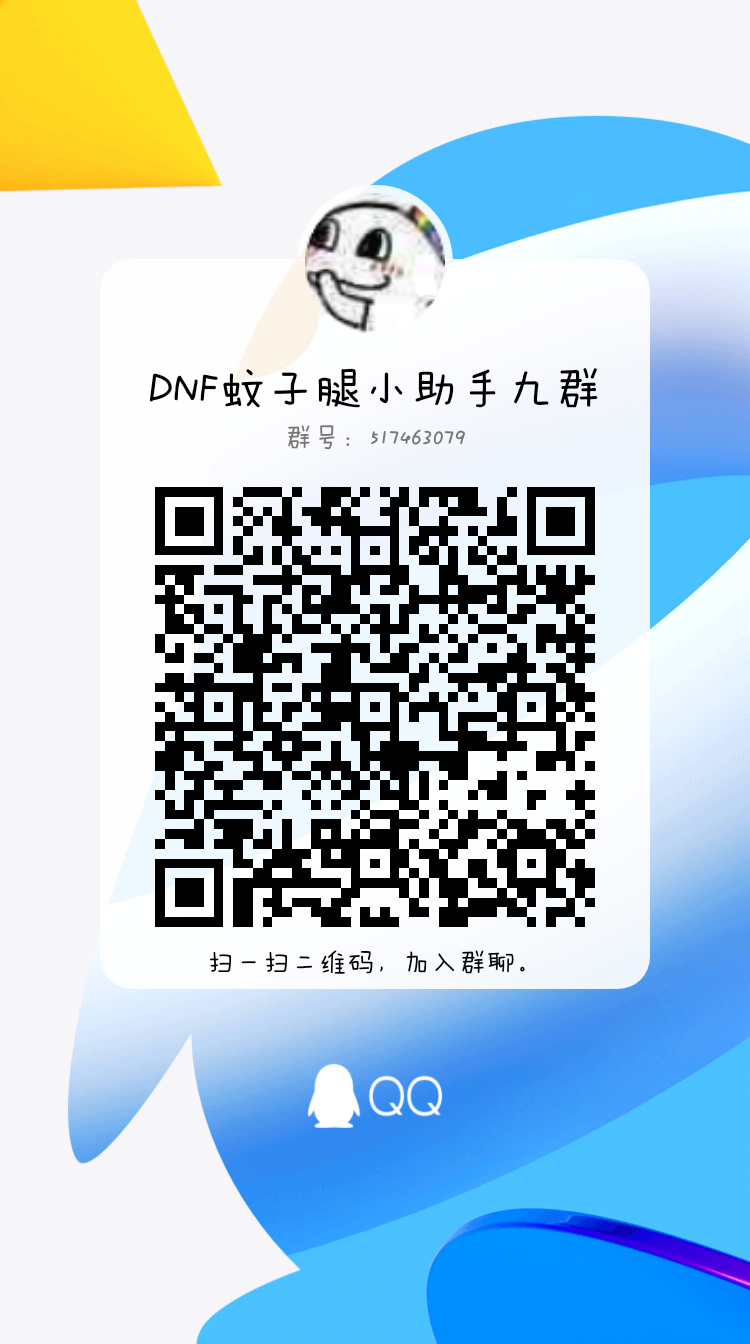
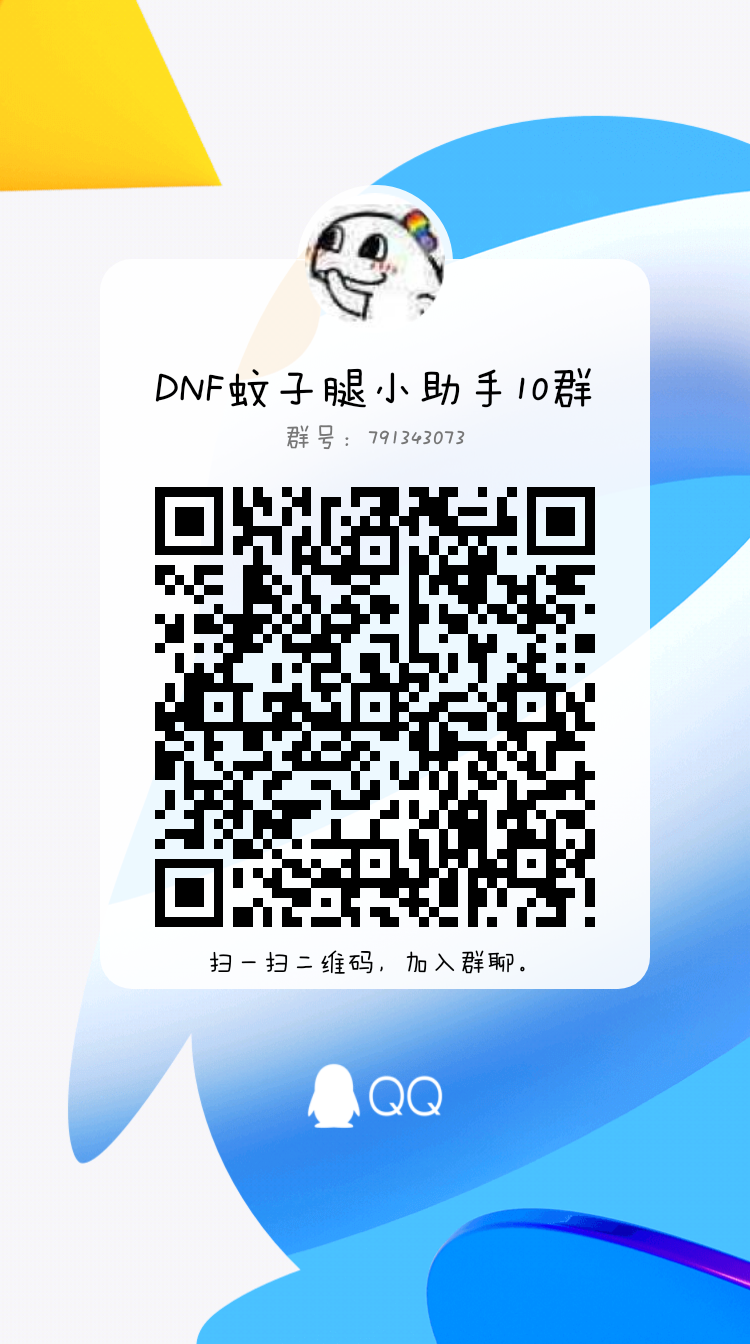
feat: 调整QQ群为10群

Changed region(s): [[0.184, 0.125, 0.7973, 0.6875]]

diff --git a/config_ui.py b/config_ui.py
@@ -499,8 +499,8 @@ class ConfigUi(QFrame):
         report_click_event("clear_login_status")
 
     def join_group(self, checked=False):
-        # note: 如果群 517463079 满了，到 https://qun.qq.com/join.html 获取新群的加群链接 @2021-02-13 01:41:03
-        webbrowser.open("https://qm.qq.com/cgi-bin/qm/qr?k=oH1boMJu1qlXm-MFcun0lKYcCj7qitca&jump_from=webapi")
+        # note: 如果群 791343073 满了，到 https://qun.qq.com/join.html 获取新群的加群链接 @2021-02-13 01:41:03
+        webbrowser.open("https://qm.qq.com/cgi-bin/qm/qr?k=w-U4SsRhWKGHtiMprzqa6plhbvCSALA2&jump_from=webapi")
         for suffix in [
             "png",
             "jpg",

diff --git a/config.py b/config.py
@@ -1154,7 +1154,7 @@ class CommonConfig(ConfigInterface):
         # 网盘地址
         self.netdisk_link = "https://fzls.lanzoum.com/s/djc-helper"
         # QQ群
-        self.qq_group = 517463079
+        self.qq_group = 791343073
         # 是否启用自动更新功能
         self.auto_update_on_start = True
         # 是否仅允许单个运行实例

diff --git a/相关信息/DNF蚊子腿小助手 auto.js版本.md b/相关信息/DNF蚊子腿小助手 auto.js版本.md
@@ -17,6 +17,7 @@ Github：https://github.com/fzls/autojs
     DNF蚊子腿小助手七群 389786092
     DNF蚊子腿小助手八群 552940664
     DNF蚊子腿小助手九群 517463079
+    DNF蚊子腿小助手10群 791343073
 # auto.js下载地址
 由于auto.js被各种黑产使用，原作者停止发布auto.js，而是开发与发布加了一些限制的auto.js pro（限制指无法对国内一些app操作，如支付宝、微信、淘宝啥的）。<br>
 为了方便使用，推荐使用之前版本的auto.js。<br>

diff --git a/README.MD b/README.MD
@@ -217,6 +217,7 @@ DNF蚊子腿小助手六群 444193814 <br>
 DNF蚊子腿小助手七群 389786092 <br>
 DNF蚊子腿小助手八群 552940664 <br>
 DNF蚊子腿小助手九群 517463079 <br>
+DNF蚊子腿小助手10群 791343073 <br>
 
 # 『重要』与个人隐私有关的skey相关说明
 1. skey是腾讯系应用的通用鉴权票据，个中风险，请Google搜索《腾讯skey》后自行评估

diff --git a/docs/README.md b/docs/README.md
@@ -217,6 +217,7 @@ DNF蚊子腿小助手六群 444193814 <br>
 DNF蚊子腿小助手七群 389786092 <br>
 DNF蚊子腿小助手八群 552940664 <br>
 DNF蚊子腿小助手九群 517463079 <br>
+DNF蚊子腿小助手10群 791343073 <br>
 
 # 『重要』与个人隐私有关的skey相关说明
 1. skey是腾讯系应用的通用鉴权票据，个中风险，请Google搜索《腾讯skey》后自行评估
